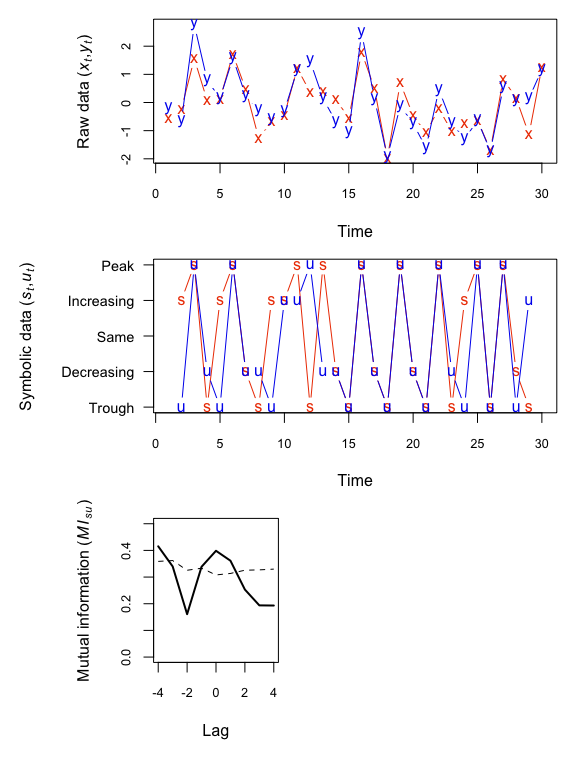
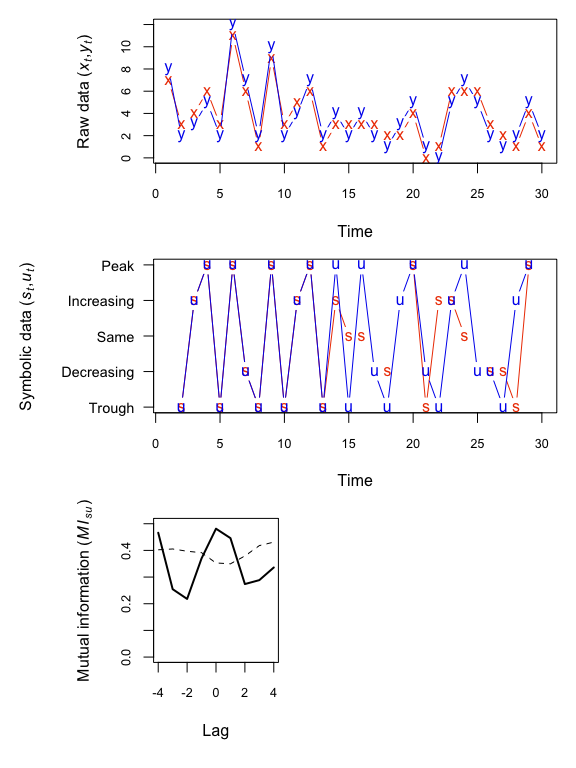
updated examples

diff --git a/README.md b/README.md
@@ -29,7 +29,7 @@ Data discretization
 
 `muti` computes MI based on 1 of 2 possible discretizations of the data:
 
-1.  **Symbolic**. In this case the *i*-th datum is converted to 1 of 5 symbolic representations (*i.e.*, "peak", "decrease", "same", "trough", "increase") based on its value relative to the *i*-1 and *i*+1 values (see [Cazelles 2004](https://doi.org/10.1111/j.1461-0248.2004.00629.x) for details). Thus, the resulting symbolic vector is 2 values shorter than its original vector. For example, if the original vector was `c(1.2,2.1,3.3,1.1,3.1,2.2)`, then its symbolic vector for values 2-5 would be `c("increase","peak","trough","peak")`.
+1.  **Symbolic**. In this case the *i*-th datum is converted to 1 of 5 symbolic representations (*i.e.*, "peak", "decreasing", "same", "trough", "increasing") based on its value relative to the *i*-1 and *i*+1 values (see [Cazelles 2004](https://doi.org/10.1111/j.1461-0248.2004.00629.x) for details). Thus, the resulting symbolic vector is 2 values shorter than its original vector. For example, if the original vector was `c(1.2,2.1,3.3,1.1,3.1,2.2)`, then its symbolic vector for values 2-5 would be `c("increasing","peak","trough","peak")`.
 
 2.  **Binned**. In this case each datum is placed into 1 of *n* equally spaced bins. If the number of bins is not specified, then it is calculated according to Rice's Rule whereby `n = ceiling(2*length(x)^(1/3))`.
 
@@ -38,52 +38,53 @@ Examples
 
 The primary output of `muti` is a data frame with the MI (`MI_xy`) and respective significance threshold (`MI_ci`) at different lags. Additionally, `muti` produces plots of the original data, symbolic data (if that option is chosen), and the MI values and associated critical value at different lags.
 
-### Ex 1: random variables as symbolic
+### Ex 1: Real values as symbolic
 
-Here's a case where there should be very little mutual information between *X* and *Y*.
+Here's an example with significant correlation between two numeric vectors. Notice that none of the symbolic values are the "same".
 
 ``` r
 set.seed(123)
 TT <- 30
 x <- rnorm(TT)
-y <- rnorm(TT)
+y <- x + rnorm(TT)
 muti(x,y)
 ```
 
 ![](README_files/figure-markdown_github/ex_1-1.png)
 
-    ##       lag      MI_xy     MI_ci
-    ##  [1,]  -4 0.11924284 0.6845677
-    ##  [2,]  -3 0.03907957 0.7561248
-    ##  [3,]  -2 0.04917229 0.6597224
-    ##  [4,]  -1 0.08017767 0.6634594
-    ##  [5,]   0 0.12264835 0.6689929
-    ##  [6,]   1 0.19056470 0.6668210
-    ##  [7,]   2 0.17398431 0.7129562
-    ##  [8,]   3 0.03907957 0.7355923
-    ##  [9,]   4 0.10472136 0.7153542
+    ##       lag     MI_xy     MI_ci
+    ##  [1,]  -4 0.3122401 0.6396689
+    ##  [2,]  -3 0.5477111 0.5896470
+    ##  [3,]  -2 0.4896244 0.5868193
+    ##  [4,]  -1 0.6133082 0.5400706
+    ##  [5,]   0 0.7759290 0.6117563
+    ##  [6,]   1 0.4590565 0.6097824
+    ##  [7,]   2 0.1663024 0.5748355
+    ##  [8,]   3 0.2815102 0.5654351
+    ##  [9,]   4 0.4795740 0.6188139
 
-### Ex 2: correlated variables as symbolic
+### Ex 2: Integer values as symbolic
 
-Here's a case where there should be significant mutual information between *X* and *Y*.
+Here's an example with significant correlation between two integer vectors.
 
 ``` r
-y <- x + rnorm(TT,0,0.5)
+x <- rpois(TT,4)
+y <- x + sample(c(-1,1),TT,replace=TRUE)
 muti(x,y)
 ```
 
 ![](README_files/figure-markdown_github/ex_2-1.png)
 
     ##       lag     MI_xy     MI_ci
-    ##  [1,]  -4 0.8055540 0.7313243
-    ##  [2,]  -3 0.6561231 0.7026832
-    ##  [3,]  -2 0.3088701 0.7169027
-    ##  [4,]  -1 0.6538114 0.6796273
-    ##  [5,]   0 0.7660774 0.6262150
-    ##  [6,]   1 0.6794669 0.5874984
-    ##  [7,]   2 0.4783460 0.5527717
-    ##  [8,]   3 0.3679923 0.6996187
-    ##  [9,]   4 0.3640055 0.5812106
+    ##  [1,]  -4 0.9622210 0.8510187
+    ##  [2,]  -3 0.5323156 0.7538786
+    ##  [3,]  -2 0.4511814 0.7758370
+    ##  [4,]  -1 0.7775874 0.7009295
+    ##  [5,]   0 0.9852553 0.6586393
+    ##  [6,]   1 0.9450356 0.7456378
+    ##  [7,]   2 0.5661902 0.8078943
+    ##  [8,]   3 0.6119224 0.8451717
+    ##  [9,]   4 0.7026058 0.8197471
 
 ### Ex 3: correlated variables with binning
 
@@ -95,16 +96,16 @@ muti(x,y,sym=FALSE)
 
 ![](README_files/figure-markdown_github/ex_3-1.png)
 
-    ##       lag     MI_xy    MI_ci
-    ##  [1,]  -4 0.8294704 1.100902
-    ##  [2,]  -3 0.9811721 1.079506
-    ##  [3,]  -2 1.0291246 1.111500
-    ##  [4,]  -1 0.8342897 1.093894
-    ##  [5,]   0 1.2513074 1.046136
-    ##  [6,]   1 1.1072603 1.047516
-    ##  [7,]   2 0.9046000 1.141455
-    ##  [8,]   3 1.2774684 1.102911
-    ##  [9,]   4 0.8875386 1.116076
+    ##       lag     MI_xy     MI_ci
+    ##  [1,]  -4 0.7205602 0.7761311
+    ##  [2,]  -3 0.9526708 0.7018589
+    ##  [3,]  -2 0.4997216 0.7832170
+    ##  [4,]  -1 0.6950575 0.6192060
+    ##  [5,]   0 1.1541215 0.6115371
+    ##  [6,]   1 0.5383688 0.6809030
+    ##  [7,]   2 0.7728422 0.6816846
+    ##  [8,]   3 0.7183452 0.7091359
+    ##  [9,]   4 0.4081389 0.8035495
 
 ### Ex 4: correlated variables as symbolic with normalized MI.
 
@@ -117,12 +118,12 @@ muti(x,y,normal=TRUE)
 ![](README_files/figure-markdown_github/ex_4-1.png)
 
     ##       lag     MI_xy     MI_ci
-    ##  [1,]  -4 0.4152936 0.3587841
-    ##  [2,]  -3 0.3398746 0.3619371
-    ##  [3,]  -2 0.1608100 0.3255315
-    ##  [4,]  -1 0.3386468 0.3332333
-    ##  [5,]   0 0.3985352 0.3080167
-    ##  [6,]   1 0.3613144 0.3135927
-    ##  [7,]   2 0.2531284 0.3256593
-    ##  [8,]   3 0.1938644 0.3270083
-    ##  [9,]   4 0.1932648 0.3297892
+    ##  [1,]  -4 0.4661998 0.4022972
+    ##  [2,]  -3 0.2545601 0.4053128
+    ##  [3,]  -2 0.2180167 0.3969374
+    ##  [4,]  -1 0.3699019 0.3913088
+    ##  [5,]   0 0.4813746 0.3528764
+    ##  [6,]   1 0.4460337 0.3497386
+    ##  [7,]   2 0.2737760 0.3790230
+    ##  [8,]   3 0.2885335 0.4179139
+    ##  [9,]   4 0.3359142 0.4310782
